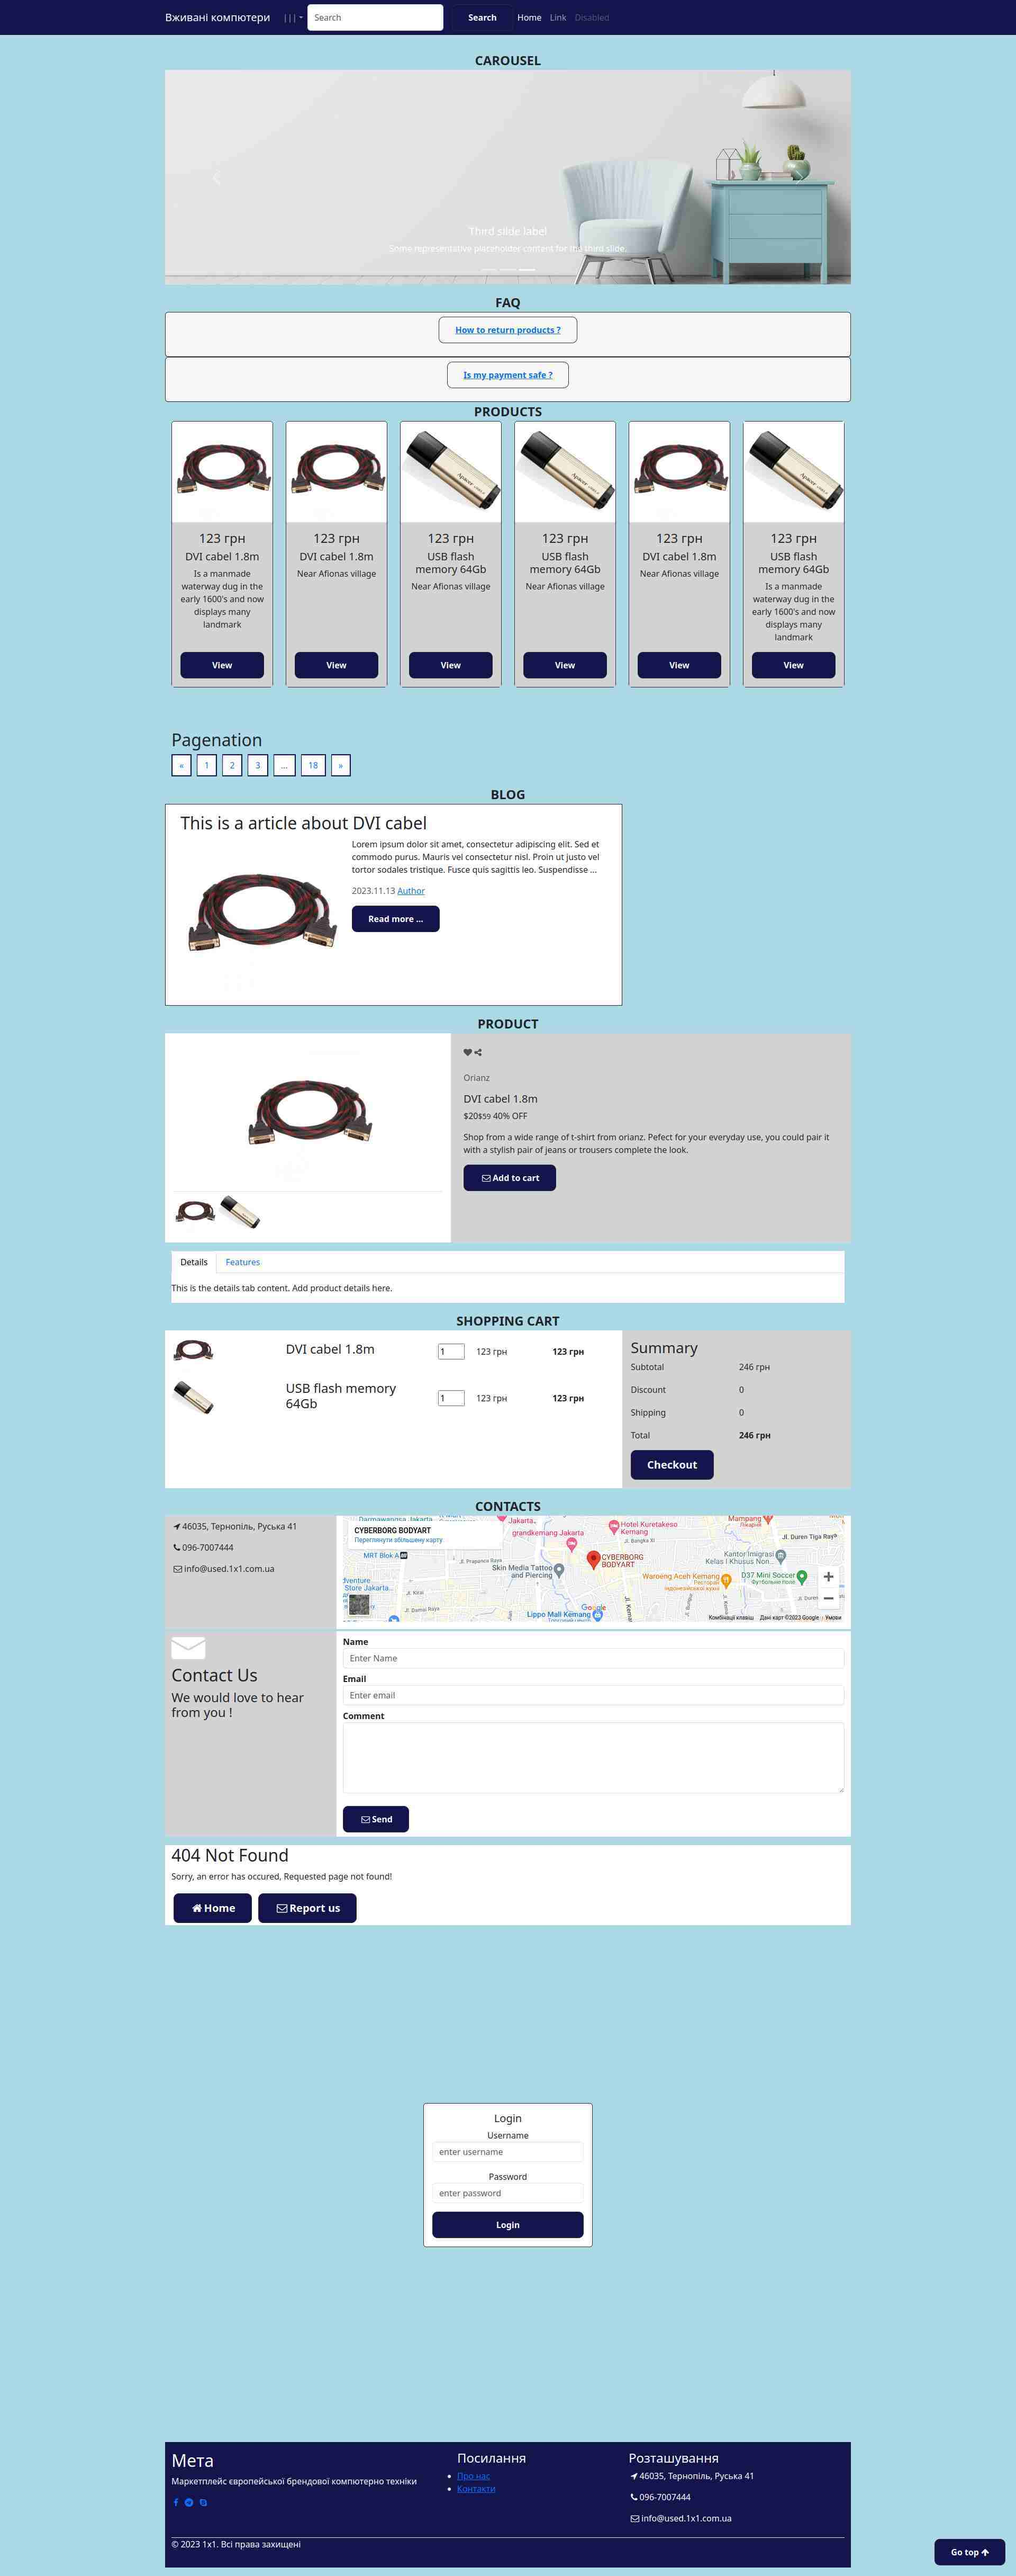
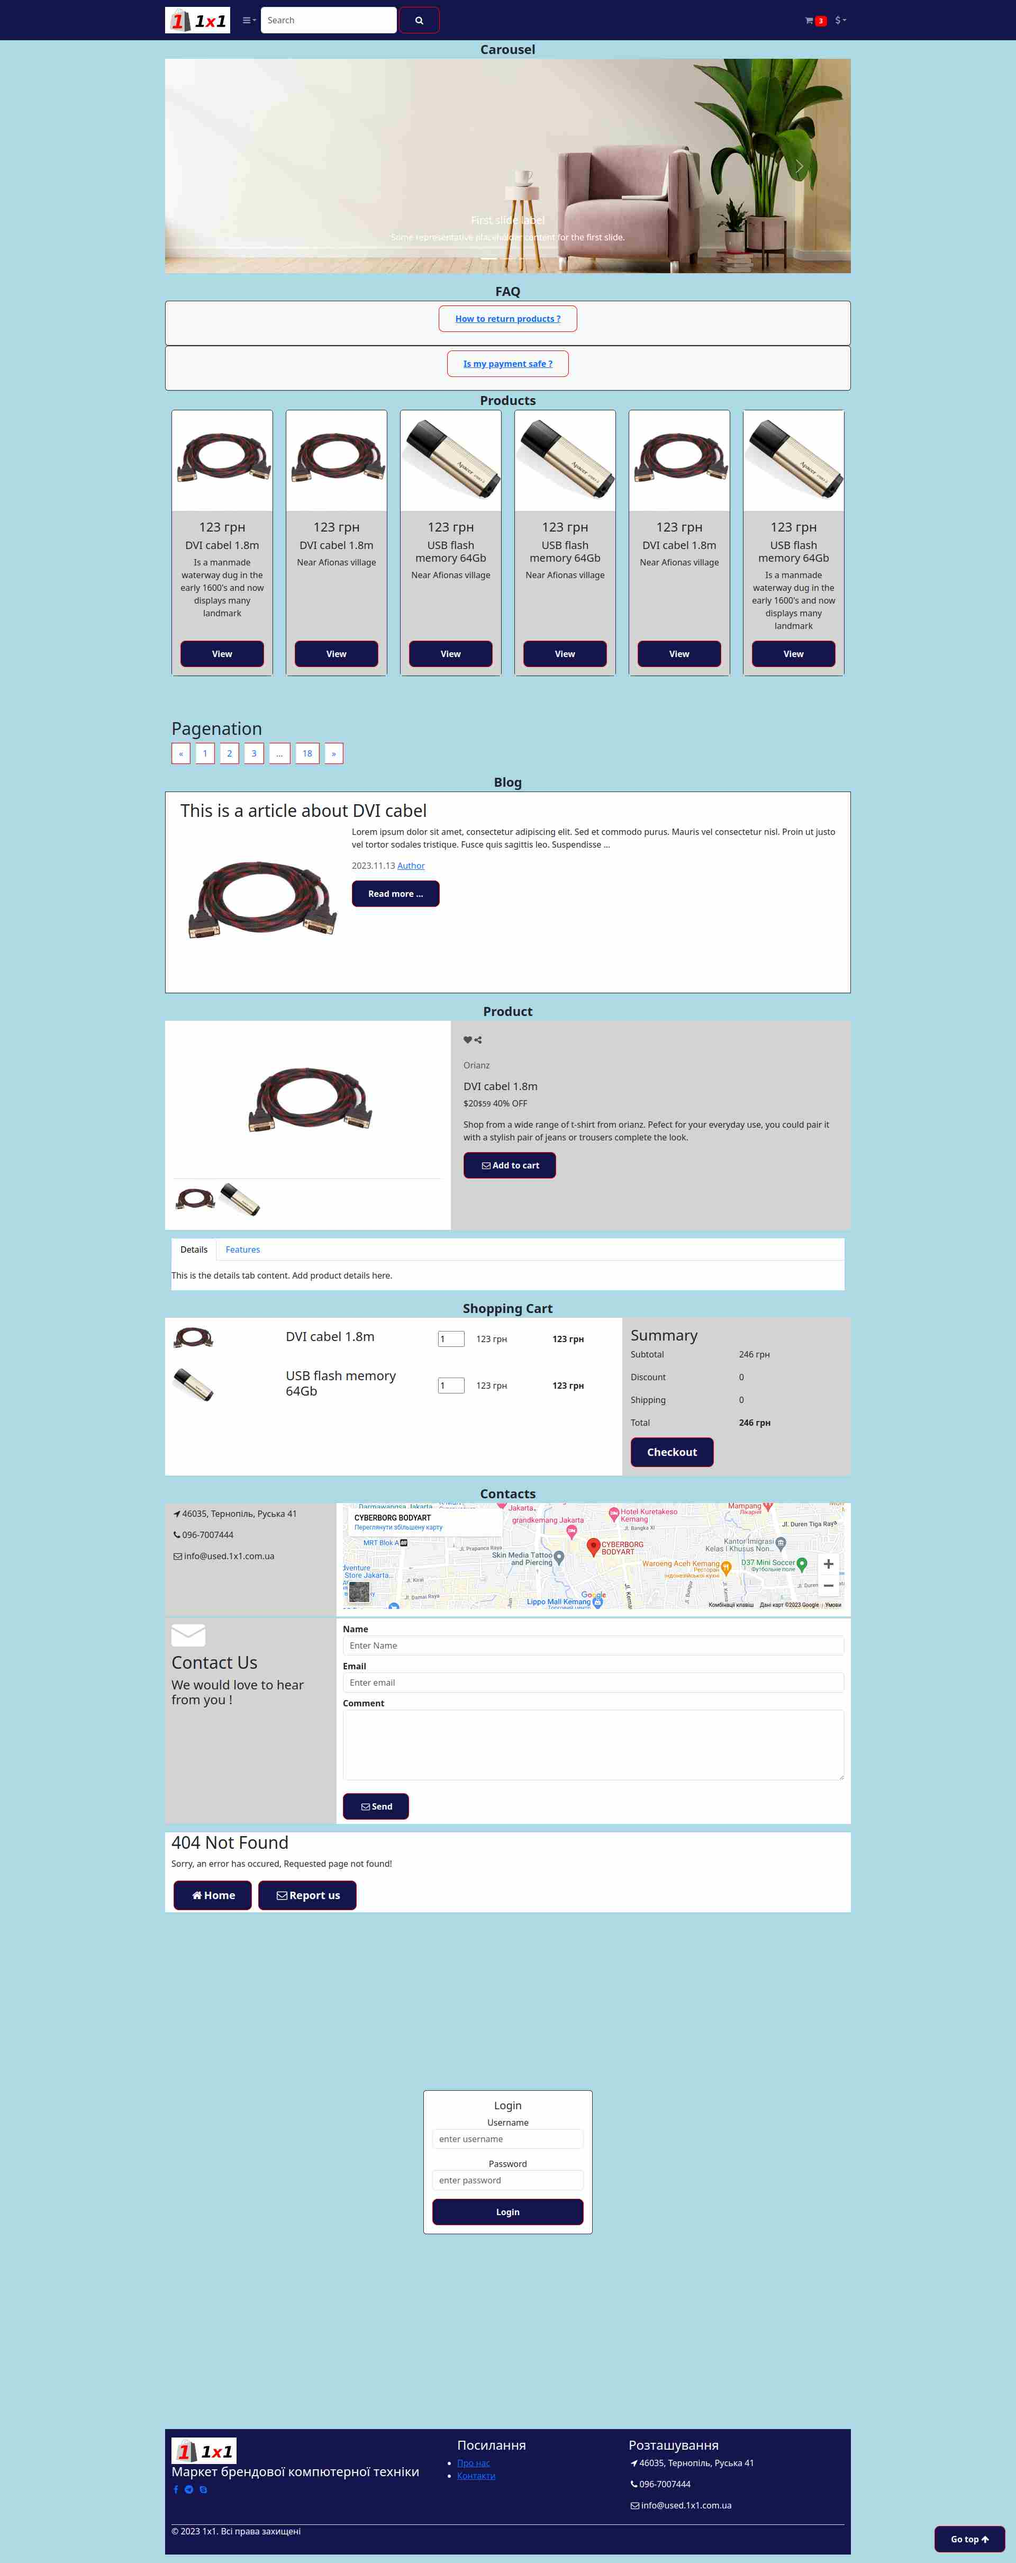
MyCommit

diff --git a/src/index.html b/src/index.html
@@ -15,64 +15,71 @@
 
     <nav class="navbar navbar-expand-md navbar-dark fixed-top vFooter" id="main_navbar">
   <div class="container">
-    <a class="navbar-brand" href="/">Вживані компютери</a>
+    <a class="navbar-brand mr-5" href="/">
+      <img src="assets/img/logo.png" alt="Your Logo" height="50" class="d-inline-block vBgMaster">
+    </a>
+
     <button class="navbar-toggler" type="button" data-bs-toggle="collapse" data-bs-target="#navbarCollapse" aria-controls="navbarCollapse" aria-expanded="false" aria-label="Toggle navigation">
       <span class="navbar-toggler-icon"></span>
     </button>
 
-      <ul class="navbar-nav me-auto mb-2 mb-md-0">
-        <li class="nav-item dropdown">
-          <a class="nav-link dropdown-toggle" href="#" role="button" data-bs-toggle="dropdown" aria-expanded="false">|||</a>
-          <ul class="dropdown-menu">
-            <li class="nav-item dropdown">
-              <a class="dropdown-item dropdown-toggle" href="#" role="button" data-bs-toggle="dropdown">
-                Dropdown
-              </a>
-              <ul class="dropdown-menu">
-                <li><a class="dropdown-item" href="/">Action</a></li>
-                <li><a class="dropdown-item" href="#">Another action</a> </li>
-                <li> <hr class="dropdown-divider"> </li>
-                <li> <a class="dropdown-item" href="#">Something else here</a></li>
-                <li class="nav-item dropdown"> <a class="dropdown-item dropdown-toggle" href="#" role="button" data-bs-toggle="dropdown">Dropdown </a>
-                     <ul class="dropdown-menu">
-                        <li><a class="dropdown-item" href="/">Action</a></li>
-                        <li><a class="dropdown-item" href="#">Another action</a> </li>
-                        <li><hr class="dropdown-divider"></li>
-                        <li><a class="dropdown-item" href="#">Something else here</a></li>
-                    </ul>
-                </li>
-              </ul>
-            </li>
-                <li><a class="dropdown-item" href="/">Action</a></li>
-                <li><a class="dropdown-item" href="#">Another action</a></li>
-                <li><hr class="dropdown-divider"></li>
-                <li><a class="dropdown-item" href="#">Something else here</a></li>
-          </ul>
-        </li>
-      </ul>
+    <ul class="navbar-nav me-auto mb-2 mb-md-0">
+      <li class="nav-item dropdown">
+        <a class="nav-link dropdown-toggle" href="#"><i class="fa fa-bars"></i></a>
+        <ul class="dropdown-menu">
+          <li class="nav-item dropdown">
+            <a class="dropdown-item dropdown-toggle" href="#" role="button" data-bs-toggle="dropdown">
+              Dropdown
+            </a>
+            <ul class="dropdown-menu">
+              <li><a class="dropdown-item" href="/">Action</a></li>
+              <li><a class="dropdown-item" href="#">Another action</a> </li>
+              <li> <hr class="dropdown-divider"> </li>
+              <li> <a class="dropdown-item" href="#">Something else here</a></li>
+              <li class="nav-item dropdown"> <a class="dropdown-item dropdown-toggle" href="#" role="button" data-bs-toggle="dropdown">Dropdown </a>
+                    <ul class="dropdown-menu">
+                      <li><a class="dropdown-item" href="/">Action</a></li>
+                      <li><a class="dropdown-item" href="#">Another action</a> </li>
+                      <li><hr class="dropdown-divider"></li>
+                      <li><a class="dropdown-item" href="#">Something else here</a></li>
+                  </ul>
+              </li>
+            </ul>
+          </li>
+              <li><a class="dropdown-item" href="/">Action</a></li>
+              <li><a class="dropdown-item" href="#">Another action</a></li>
+              <li><hr class="dropdown-divider"></li>
+              <li><a class="dropdown-item" href="#">Something else here</a></li>
+        </ul>
+      </li>
+    </ul>
 
     <div class="collapse navbar-collapse" id="navbarCollapse">
-      <form class="d-flex">
-        <input class="form-control me-3" type="search" placeholder="Search" aria-label="Search">
-        <button class="btn btn-outline-success" type="submit">Search</button>
+      <form class="d-flex" >
+        <input class="form-control me-1" type="search" placeholder="Search" aria-label="Search">
+        <button class="btn btn-outline-success" type="submit"><i class="fa fa-search"></i></button>
       </form>
-      <ul class="navbar-nav me-auto mb-2 mb-md-0">
-        <li class="nav-item">
-          <a class="nav-link active" aria-current="page" href="#">Home</a>
-        </li>
-        <li class="nav-item">
-          <a class="nav-link" href="#">Link</a>
-        </li>
-        <li class="nav-item">
-          <a class="nav-link disabled">Disabled</a>
-        </li>
+    </div>
+
+    <div class="ml-auto">
+      <ul class="navbar-nav">
+          <a class="nav-link" href="#">
+            <i class="fa fa-shopping-cart"></i>
+            <span class="badge vBgBtn">3</span>
+          </a>
+          <li class="nav-item dropdown">
+            <a class="nav-link dropdown-toggle" href="#"><i class="fa fa-dollar"></i></a>
+            <div class="dropdown-menu">
+              <a class="dropdown-item" href="#">usd</a>
+              <a class="dropdown-item" href="#">eur</a>
+            </div>
+          </li>
       </ul>
     </div>
+
   </div>
 </nav>
 
-<div class="container p-5">
-</div>
     <div class="container pb-3">
     <div class="vTitle">Carousel</div>
 
@@ -250,7 +257,7 @@
     <div class="vTitle">Blog</div>
 
     <div class="row">
-        <div class="col-md-8 border border-dark vBgMaster">
+        <div class="border border-dark vBgMaster">
             <div class="p-3">
                 <h2>This is a article about DVI cabel</h2>
                 <img src="assets/img/product1.jpg" alt="Blog Post Image" class="float-md-start me-md-4 mb-3" width="300">
@@ -484,8 +491,10 @@
   <div class="container">
     <div class="row">
       <div class="col-lg-5 col-xs-12">
-        <h2>Мета</h2>
-        <p>Маркетплейс європейської брендової компютерно техніки</p>
+    <a class="navbar-brand mr-5" href="/">
+      <img src="assets/img/logo.png" alt="Your Logo" height="50" class="d-inline-block vBgMaster">
+    </a>
+        <h4>Маркет брендової компютерної техніки</h4>
         <p>
           <a href="#" role="button"><i class="fa fa-facebook m-1"></i></a>
           <a href="#" role="button"><i class="fa fa-telegram m-1"></i></a>

diff --git a/src/assets/css/common.css b/src/assets/css/common.css
@@ -2,6 +2,7 @@
     --textSizeTitle: 1.5em;
 
     --colorBgBody: LightBlue;
+    --colorBgBtn: red;
     --colorBgFooter: rgb(20, 20, 77);
     --colorBgMaster: White;
     --colorBgSlave: LightGray;
@@ -16,19 +17,24 @@
     background-color: var(--colorBgSlave)
 }
 
+.vBgBtn {
+    background-color: var(--colorBgBtn)
+}
+
 
 /*-- misc --*/
 body {
   background-color: var(--colorBgBody);
+  padding-top: 75px;
 }
 
 .btn {
     font-weight: 600;
     padding: 12px 30px;
     border-radius: 10px;
-    color: #ffffff;
+    color: white;
     background: var(--colorBgFooter);
-    border-color: #2f2f2f;
+    border-color: var(--colorBgBtn);
 }
 
 .vFooter{
@@ -39,7 +45,6 @@ body {
 .vTitle {
     text-align: center;
     font-size: var(--textSizeTitle);
-    text-transform: uppercase;
     font-weight: bolder;
 }
 

diff --git a/src/assets/css/pagination.css b/src/assets/css/pagination.css
@@ -1,4 +1,5 @@
 .pagination .page-item {
     margin-right: 10px;
-    border: 2px solid var(--colorBgFooter);
+    border-color: var(--colorBgBtn);
+    border: 1px solid var(--colorBgBtn);
 }
